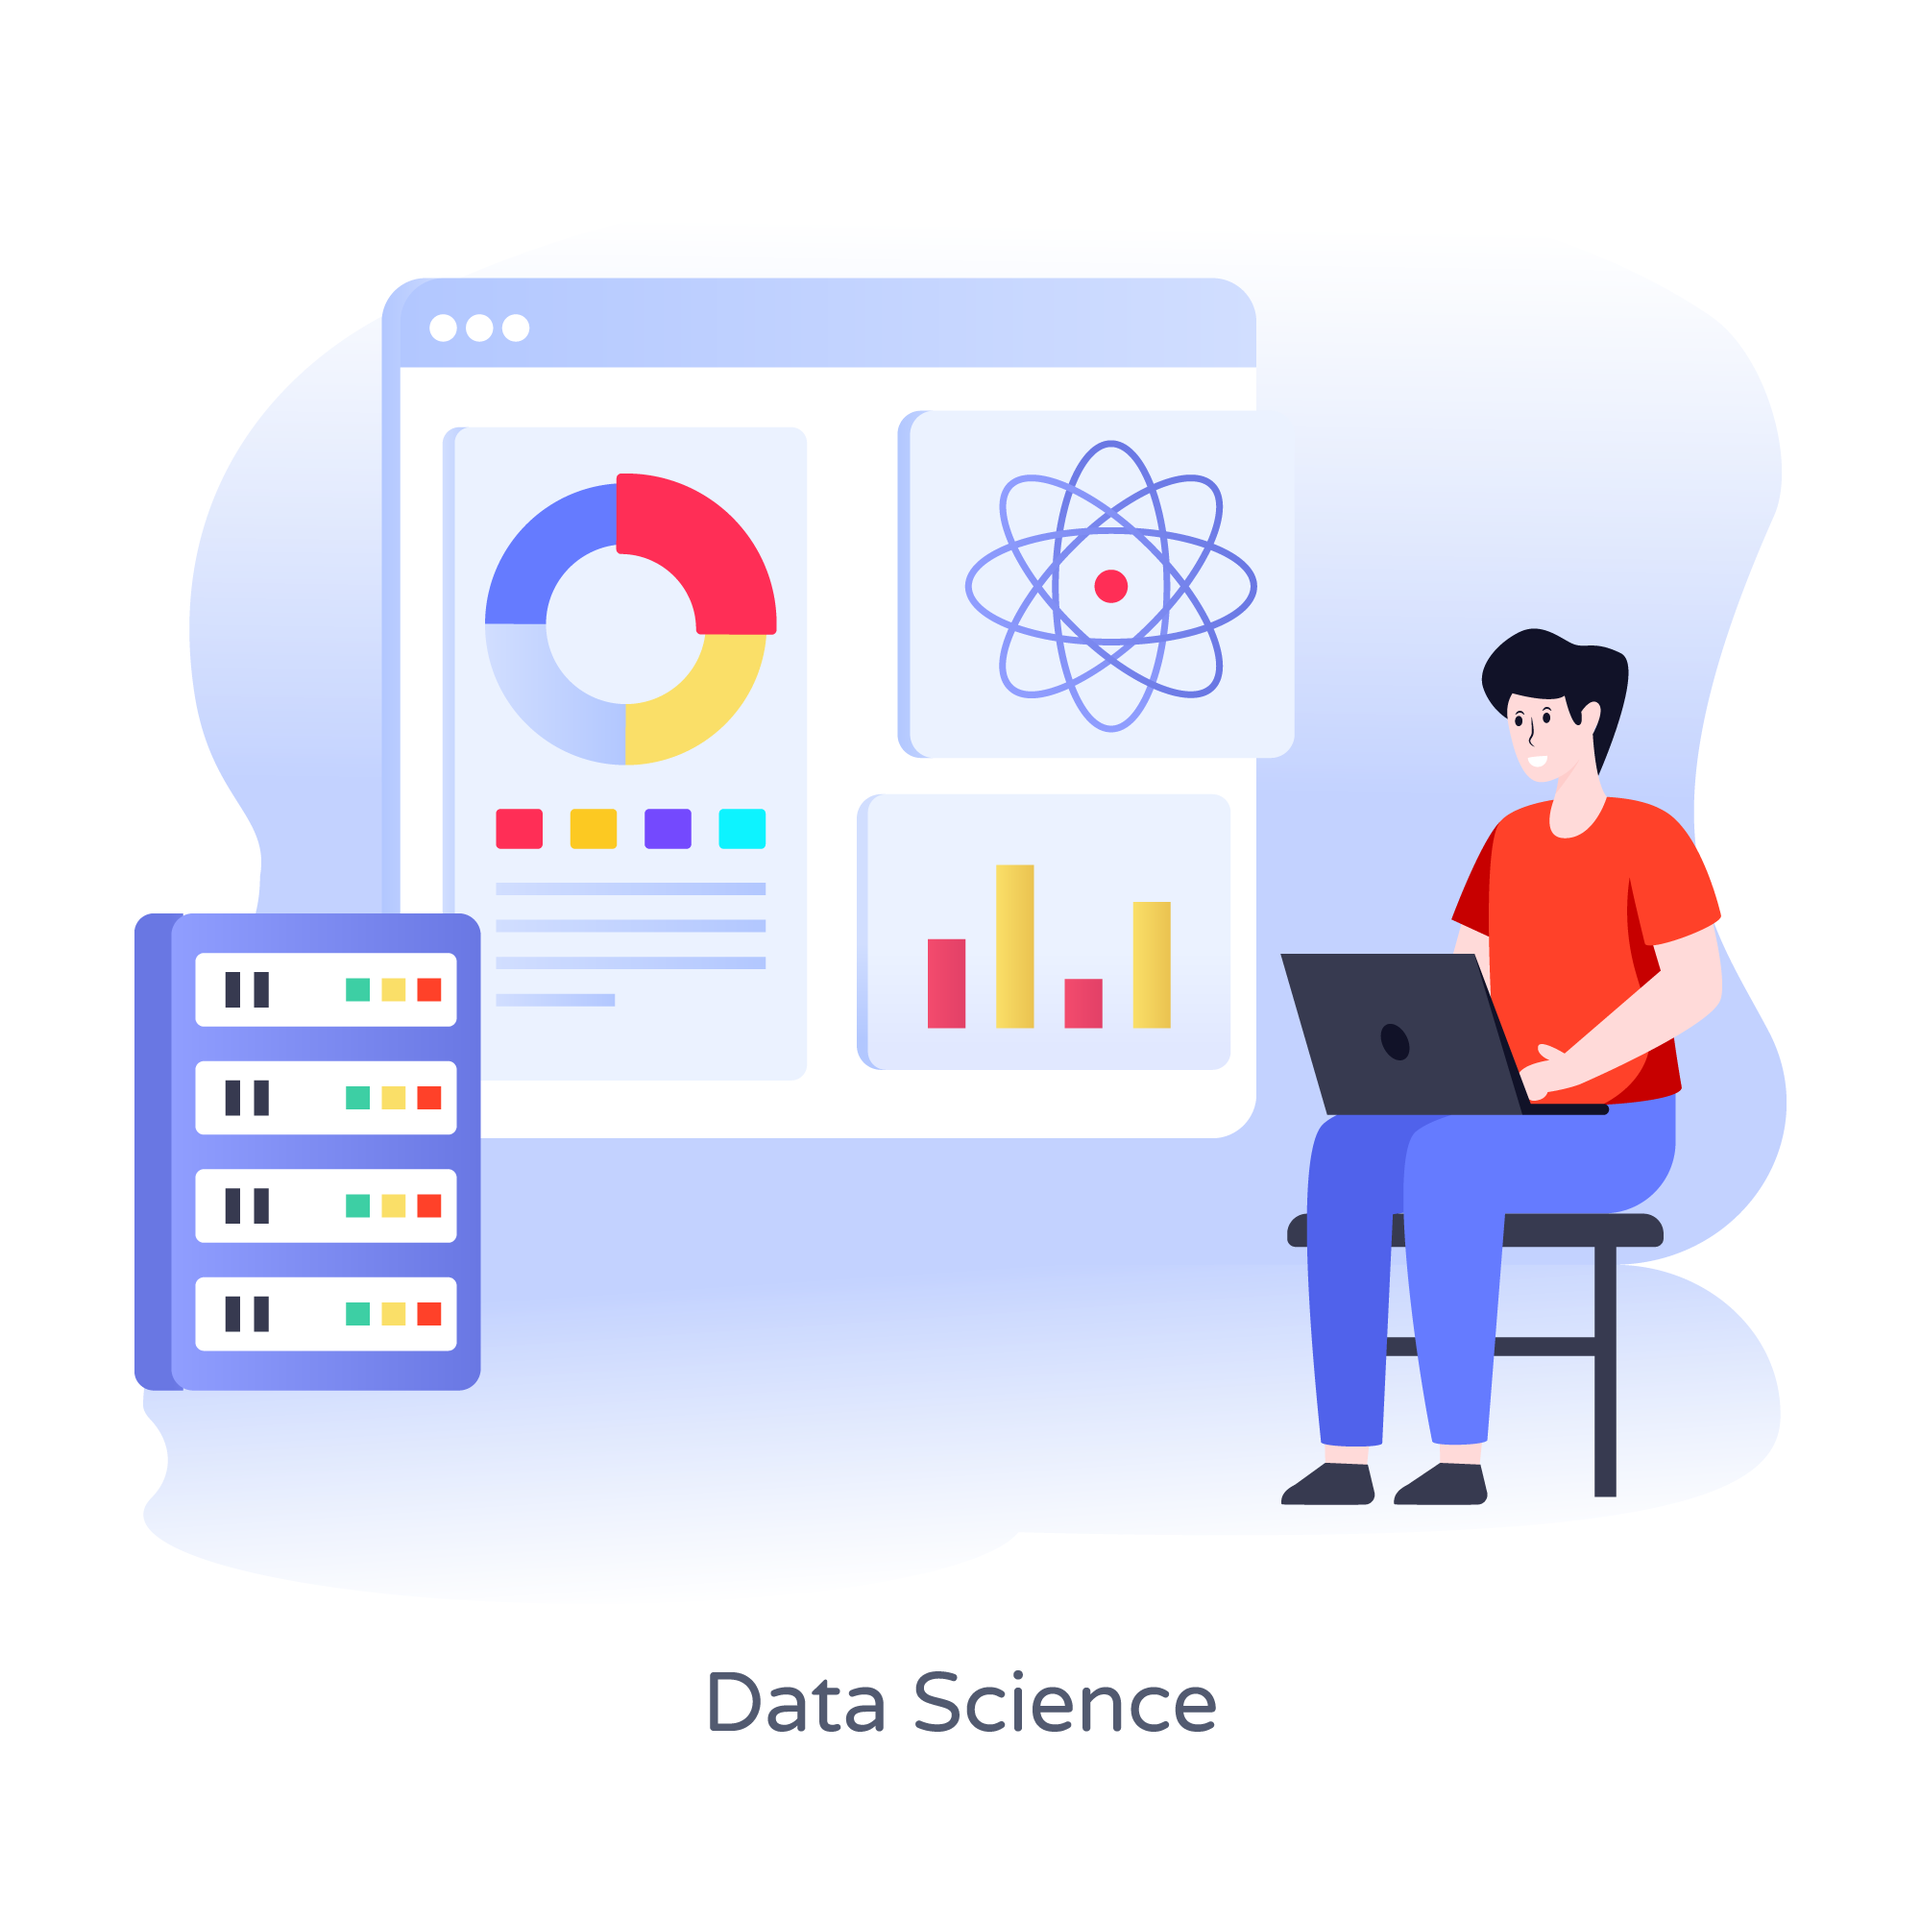
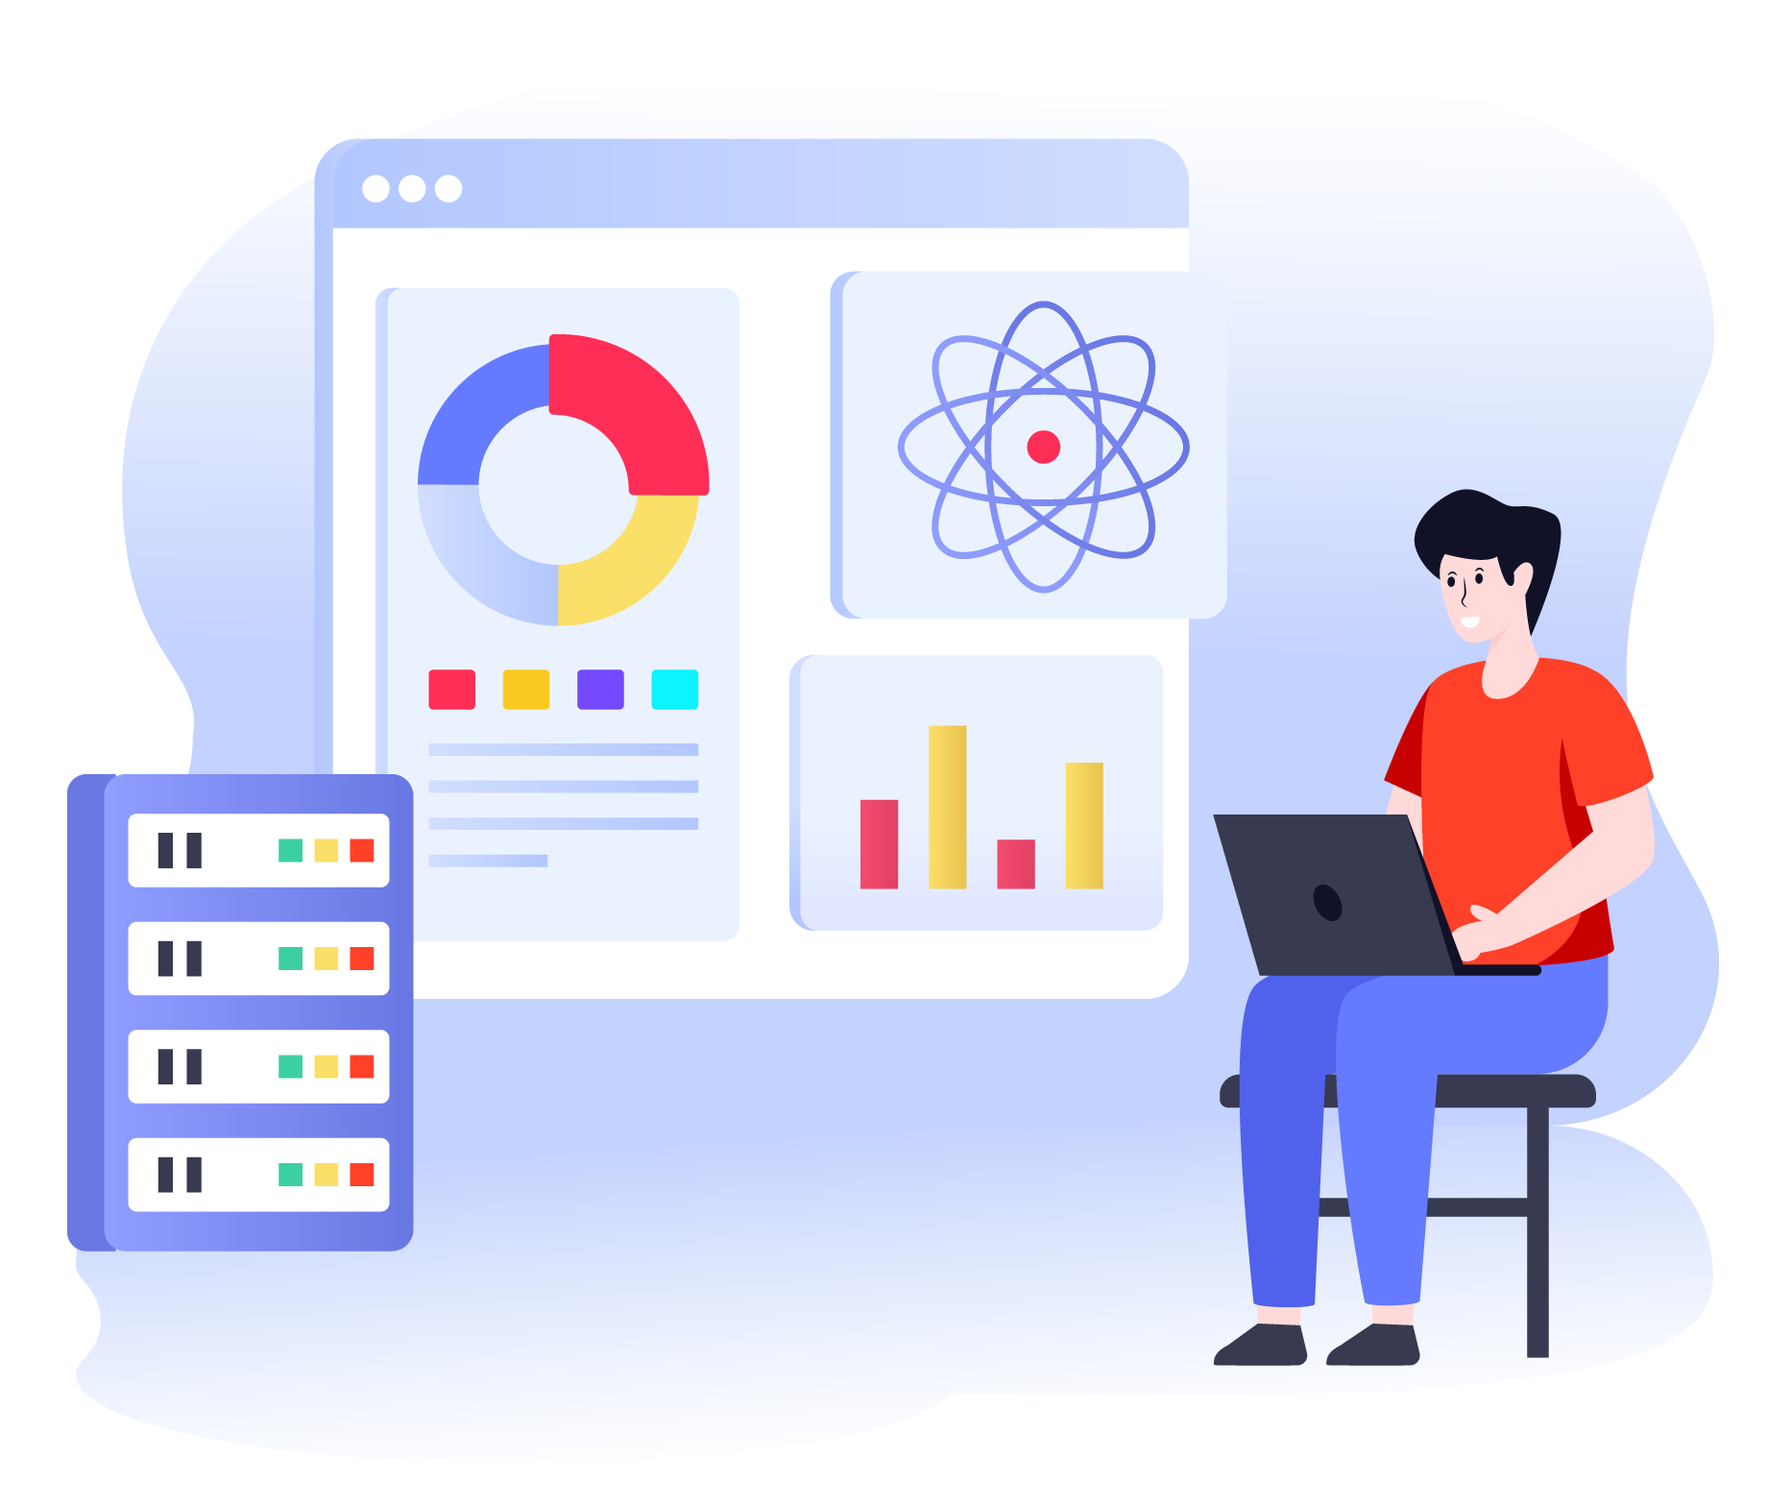
feat: change images

diff --git a/src/components/pages/home/AudienceSection.vue b/src/components/pages/home/AudienceSection.vue
@@ -8,9 +8,9 @@ import BaseMaxContent from "@/components/core/base/BaseMaxContent.vue";
             <section id="solutions" ref="wrapperEl" class="flex flex-col gap-y-20 py-6">
                 <div class="grid grid-cols-12 items-center">
                     <div data-aos="fade-up-right" class="col-span-7">
-                        <div class="relative pt-[90.71%]">
-                            <img
-                                src="@/assets/img/why-us.svg"
+                        <div class="relative pt-[72.48%]">
+                            <NuxtImg
+                                src="/solutions-1.png"
                                 alt=""
                                 class="main-banner-right-animation absolute top-0 -left-[20%] w-full h-full"
                             />
@@ -94,10 +94,11 @@ import BaseMaxContent from "@/components/core/base/BaseMaxContent.vue";
                     </div>
 
                     <div data-aos="fade-up-left" class="col-span-7">
-                        <div class="relative pt-[90.71%]">
-                            <img
-                                src="@/assets/img/why-us.svg"
+                        <div class="relative pt-[86.76%]">
+                            <NuxtImg
+                                src="/solutions-2.png"
                                 alt=""
+                                format="webp"
                                 class="main-banner-right-animation absolute top-0 -right-[20%] w-full h-full"
                             />
                         </div>
@@ -106,9 +107,10 @@ import BaseMaxContent from "@/components/core/base/BaseMaxContent.vue";
                 <div class="grid grid-cols-12 items-center">
                     <div data-aos="fade-up-right" class="col-span-7">
                         <div class="relative pt-[90.71%]">
-                            <img
-                                src="@/assets/img/why-us.svg"
+                            <NuxtImg
+                                src="/solutions-3.png"
                                 alt=""
+                                format="webp"
                                 class="main-banner-right-animation absolute top-0 -left-[20%] w-full h-full"
                             />
                         </div>
@@ -188,9 +190,10 @@ import BaseMaxContent from "@/components/core/base/BaseMaxContent.vue";
 
                     <div data-aos="fade-up-left" class="col-span-7">
                         <div class="relative pt-[90.71%]">
-                            <img
-                                src="@/assets/img/why-us.svg"
+                            <NuxtImg
+                                src="/solutions-3.png"
                                 alt=""
+                                format="webp"
                                 class="main-banner-right-animation absolute top-0 -right-[20%] w-full h-full"
                             />
                         </div>

diff --git a/src/components/pages/home/ContactSection.vue b/src/components/pages/home/ContactSection.vue
@@ -110,8 +110,16 @@ defineExpose({
                         </div>
                     </form>
                 </div>
-                <div class="col-span-7 w-[90%] ml-auto">
-                    <NuxtImg src="/contact.png" format="webp" />
+                <div class="col-span-7">
+                    <div class="w-full ml-auto">
+                        <div class="relative pt-[84.18%]">
+                            <NuxtImg
+                                src="/contact.png"
+                                format="webp"
+                                class="absolute top-0 -right-[10%] w-full h-full"
+                            />
+                        </div>
+                    </div>
                 </div>
             </div>
         </BaseMaxContent>
